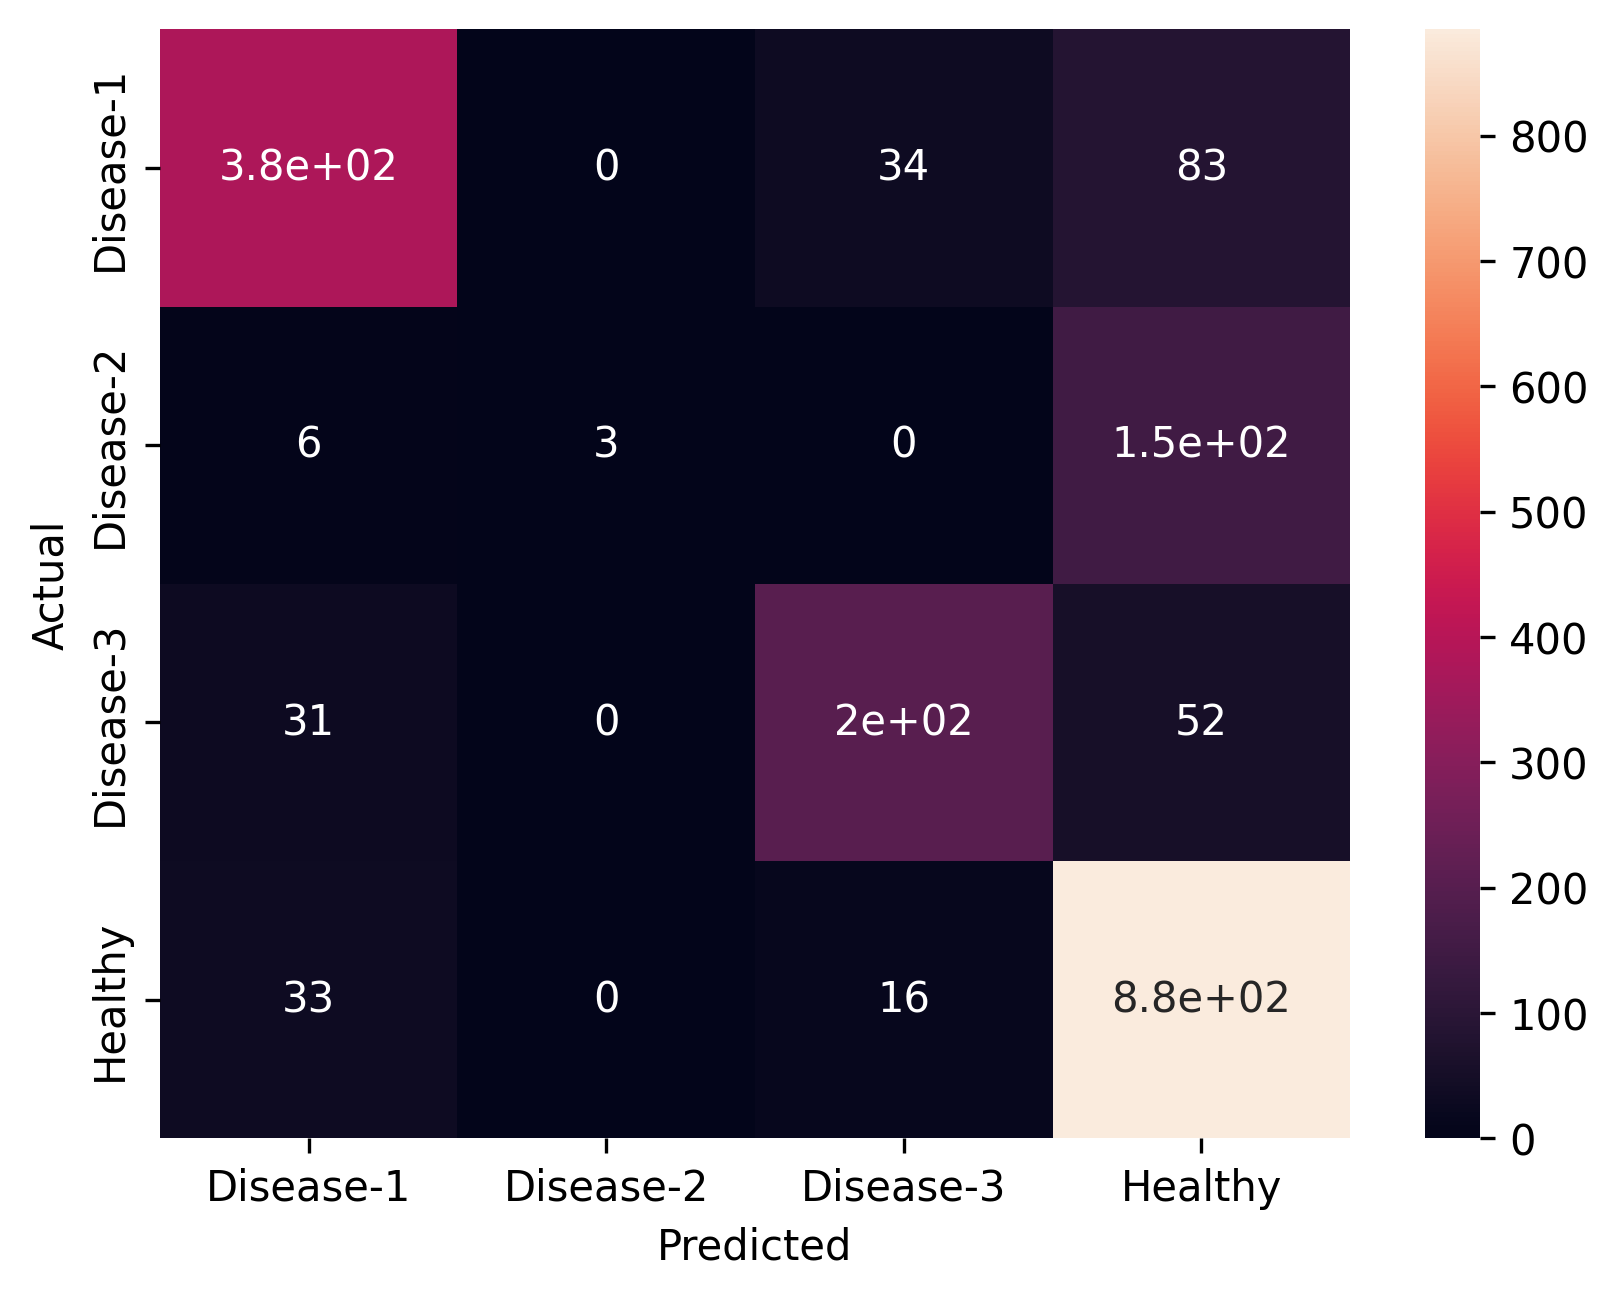
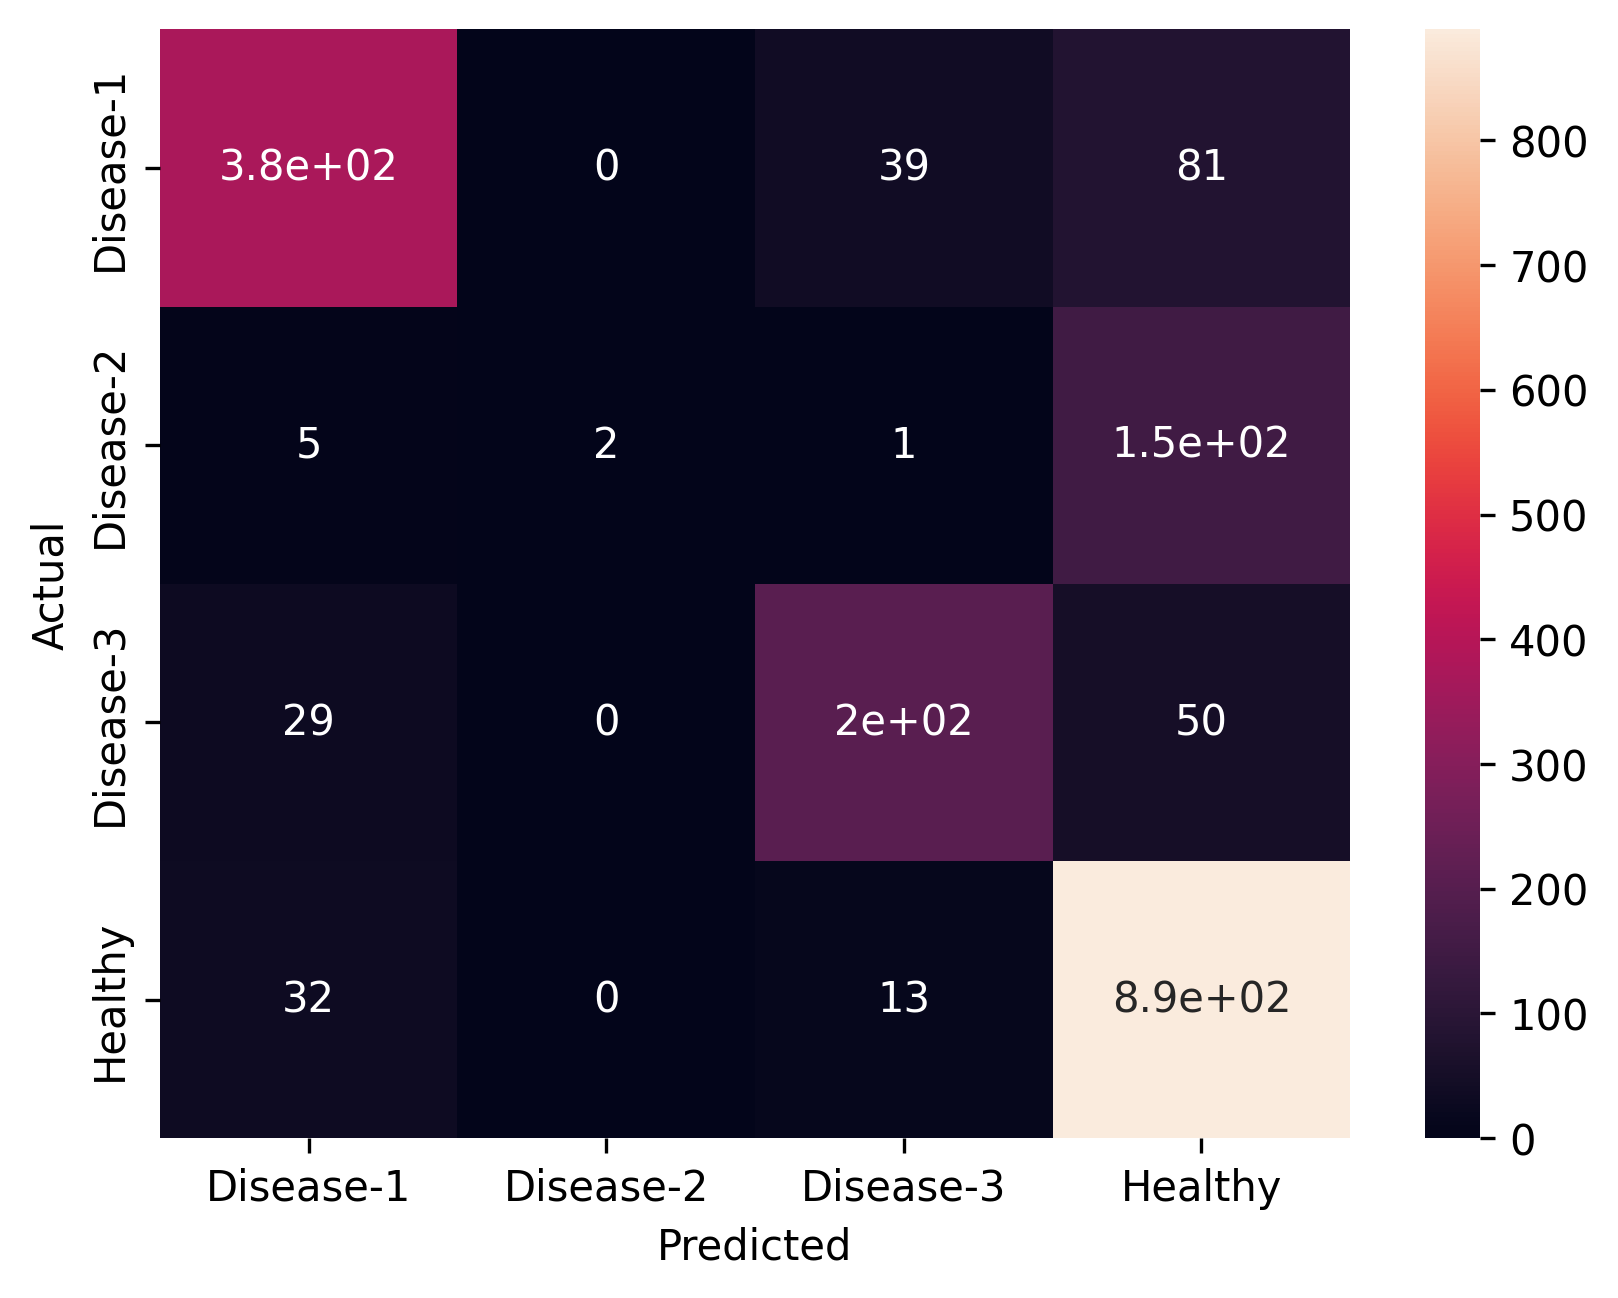
More details

diff --git a/main.py b/main.py
@@ -1,6 +1,6 @@
 #!/usr/bin/env python
 # -*- coding: utf-8 -*-
-"""Pharmahacks challenge 1"""
+"""Pharmahacks - Phyla Challenge #2"""
 
 import pandas as pd
 from sklearn.model_selection import train_test_split
@@ -25,10 +25,16 @@ confusion_matrix = pd.crosstab(Y_test, Y_pred, rownames=[
                                'Actual'], colnames=['Predicted'])
 sn.heatmap(confusion_matrix, annot=True)
 
-print('Accuracy: ', metrics.accuracy_score(Y_test, Y_pred))
+print('Accuracy - F1 Score - Micro: ', metrics.accuracy_score(Y_test, Y_pred))
+print('F1 Score - Macro: ', metrics.f1_score(Y_test, Y_pred, average='macro'))
+print('F1 Score - Weighted: ', metrics.f1_score(Y_test, Y_pred, average='weighted'))
 plt.savefig(fname="metrics.png", dpi=300, bbox_inches="tight")
 
-# TEST
-# Real Answer: Disease-2
-prediction = clf.predict([[0.0,10.0,0.0,0.0,0.0,0.0,0.0,0.0,0.0,0.0,0.0,0.0,0.0,0.0,0.0,0.0,0.0,0.0,0.0,0.0,0.0,0.0,0.0,0.0,0.0,0.0,0.0,0.0,0.0,0.0,0.0,0.0,0.0,0.0,0.0,0.0,0.0,0.0,0.0,0.0,0.0,0.0,0.0,0.0,0.0,0.0,0.0,0.0,0.0,0.0,0.0,0.0,0.0,0.0,0.0,0.0,0.0,0.0,0.0,0.0,0.0,0.0,0.0,0.0,0.0,0.0,0.0,0.0,0.0,0.0,0.0,0.0,0.0,0.0,0.0,0.0,0.0,0.0,0.0,0.0,0.0,0.0,0.0,0.0,0.0,0.0,0.0,0.0,0.0,0.0,0.0,0.0,0.0,0.0,0.0,0.0,0.0,0.0,0.0,0.0,0.0,0.0,0.0,0.0,0.0,0.0,0.0,0.0,0.0,0.0,0.0,0.0,0.0,0.0,0.0,0.0,0.0,0.0,0.0,0.0,0.0,0.0,0.0,0.0,0.0,0.0,0.0,0.0,0.0,0.0,0.0,0.0,0.0,0.0,0.0,0.0,0.0,0.0,0.0,0.0,0.0,0.0,0.0,2.0,0.0,0.0,0.0,0.0,0.0,0.0,16.0,0.0,0.0,0.0,0.0,10.0,17.0,0.0,0.0,0.0,0.0,0.0,0.0,0.0,0.0,0.0,0.0,0.0,0.0,0.0,0.0,0.0,0.0,0.0,0.0,0.0,0.0,0.0,0.0,0.0,0.0,5796.0,0.0,0.0,0.0,0.0,0.0,71.0,37.0,267.0,0.0,0.0,0.0,0.0,0.0,30.0,67.0,0.0,0.0,2783.0,0.0,0.0,0.0,0.0,0.0,0.0,0.0,0.0,0.0,0.0,0.0,0.0,0.0,0.0,0.0,241.0,795.0,0.0,0.0,0.0,0.0,16.0,0.0,0.0,0.0,0.0,0.0,0.0,0.0,1161.0,0.0,0.0,556.0,0.0,0.0,0.0,0.0,0.0,0.0,0.0,0.0,0.0,498.0,0.0,0.0,0.0,0.0,0.0,0.0,0.0,17.0,0.0,0.0,0.0,0.0,0.0,0.0,0.0,0.0,0.0,0.0,0.0,0.0,0.0,0.0,0.0,0.0,0.0,0.0,0.0,0.0,0.0,0.0,0.0,0.0,0.0,0.0,0.0,0.0,0.0,0.0,0.0,0.0,0.0,0.0,0.0,0.0,0.0,0.0,0.0,0.0,0.0,0.0,0.0,0.0,0.0,0.0,0.0,0.0,0.0,0.0,0.0,0.0,0.0,0.0,0.0,0.0,0.0,0.0,0.0,0.0,0.0,0.0,0.0,0.0,0.0,0.0,0.0,0.0,0.0,0.0,0.0,0.0,0.0,0.0,0.0,0.0,0.0,0.0,0.0,0.0,0.0,0.0,0.0,0.0,0.0,0.0,0.0,0.0,0.0,0.0,0.0,0.0,0.0,0.0,21.0,0.0,7.0,0.0,0.0,0.0,0.0,0.0,0.0,0.0,0.0,0.0,0.0,0.0,0.0,0.0,0.0,0.0,0.0,0.0,0.0,0.0,0.0,0.0,0.0,0.0,0.0,0.0,0.0,0.0,0.0,0.0,0.0,0.0,0.0,0.0,0.0,0.0,0.0,0.0,0.0,0.0,0.0,0.0,0.0,0.0,0.0,0.0,0.0,0.0,146.0,0.0,0.0,0.0,0.0,0.0,0.0,0.0,0.0,0.0,0.0,0.0,0.0,0.0,0.0,0.0,0.0,0.0,0.0,0.0,0.0,0.0,0.0,0.0,0.0,0.0,0.0,0.0,0.0,0.0,0.0,0.0,0.0,0.0,0.0,369.0,0.0,0.0,0.0,0.0,0.0,0.0,0.0,0.0,0.0,0.0,23.0,0.0,0.0,0.0,0.0,0.0,0.0,0.0,0.0,5.0,0.0,0.0,0.0,0.0,2927.0,0.0,0.0,0.0,89.0,0.0,0.0,0.0,0.0,0.0,0.0,0.0,0.0,0.0,0.0,0.0,41.0,0.0,0.0,0.0,0.0,0.0,6.0,190.0,17.0,0.0,0.0,0.0,0.0,0.0,0.0,0.0,0.0,0.0,0.0,0.0,0.0,0.0,0.0,0.0,0.0,0.0,0.0,0.0,0.0,0.0,0.0,0.0,12.0,0.0,0.0,0.0,0.0,0.0,0.0,0.0,0.0,0.0,0.0,0.0,0.0,24.0,0.0,0.0,17.0,626.0,595.0,519.0,0.0,158.0,0.0,0.0,0.0,29.0,0.0,0.0,0.0,89.0,0.0,0.0,161.0,18.0,0.0,0.0,0.0,0.0,0.0,0.0,23.0,0.0,0.0,42.0,0.0,0.0,77.0,0.0,36.0,0.0,0.0,11.0,0.0,0.0,0.0,6.0,30.0,0.0,0.0,122.0,0.0,0.0,0.0,0.0,121.0,0.0,0.0,0.0,7.0,0.0,0.0,0.0,80.0,60.0,0.0,112.0,0.0,45.0,0.0,33.0,0.0,105.0,161.0,0.0,0.0,1019.0,0.0,0.0,12.0,19.0,0.0,0.0,0.0,0.0,0.0,0.0,0.0,0.0,0.0,0.0,0.0,22.0,0.0,0.0,9.0,0.0,62.0,0.0,0.0,0.0,0.0,2855.0,0.0,0.0,0.0,0.0,0.0,17.0,15.0,13.0,30.0,31.0,0.0,0.0,0.0,0.0,29.0,25.0,202.0,84.0,179.0,1498.0,47.0,0.0,1632.0,0.0,46.0,49.0,735.0,44.0,619.0,145.0,196.0,0.0,246.0,0.0,290.0,113.0,0.0,900.0,0.0,0.0,1195.0,0.0,0.0,0.0,0.0,0.0,23.0,0.0,0.0,0.0,0.0,0.0,0.0,0.0,0.0,0.0,0.0,0.0,0.0,85.0,0.0,0.0,0.0,0.0,0.0,0.0,4.0,0.0,7.0,0.0,0.0,0.0,0.0,0.0,0.0,0.0,0.0,0.0,0.0,0.0,60.0,0.0,0.0,0.0,0.0,0.0,0.0,0.0,0.0,0.0,0.0,0.0,0.0,0.0,0.0,0.0,5.0,0.0,0.0,0.0,0.0,0.0,0.0,0.0,0.0,0.0,0.0,0.0,0.0,0.0,0.0,0.0,0.0,0.0,0.0,0.0,0.0,0.0,0.0,0.0,0.0,0.0,0.0,0.0,21.0,0.0,0.0,0.0,0.0,0.0,0.0,0.0,0.0,0.0,0.0,0.0,0.0,0.0,0.0,0.0,0.0,0.0,0.0,0.0,0.0,0.0,0.0,0.0,0.0,0.0,0.0,0.0,0.0,0.0,0.0,0.0,0.0,0.0,0.0,0.0,0.0,0.0,0.0,0.0,0.0,0.0,0.0,0.0,0.0,0.0,0.0,0.0,0.0,0.0,0.0,0.0,0.0,0.0,0.0,0.0,0.0,0.0,0.0,0.0,0.0,0.0,0.0,0.0,0.0,0.0,0.0,0.0,0.0,0.0,0.0,0.0,0.0,0.0,0.0,0.0,0.0,0.0,0.0,0.0,0.0,0.0,0.0,0.0,0.0,0.0,0.0,0.0,0.0,0.0,0.0,0.0,0.0,0.0,0.0,0.0,0.0,0.0,0.0,0.0,0.0,0.0,0.0,0.0,0.0,0.0,0.0,636.0,0.0,0.0,1349.0,0.0,0.0,0.0,0.0,0.0,0.0,0.0,0.0,0.0,0.0,0.0,0.0,0.0,0.0,0.0,0.0,0.0,0.0,0.0,0.0,0.0,0.0,0.0,0.0,0.0,0.0,0.0,0.0,0.0,0.0,0.0,0.0,0.0,0.0,33.0,76.0,0.0,10.0,0.0,0.0,0.0,0.0,0.0,0.0,0.0,0.0,0.0,0.0,0.0,0.0,0.0,0.0,0.0,0.0,0.0,0.0,0.0,0.0,0.0,0.0,0.0,0.0,0.0,0.0,0.0,0.0,0.0,0.0,0.0,0.0,0.0,0.0,0.0,0.0,0.0,0.0,0.0,0.0,0.0,0.0,0.0,0.0,0.0,0.0,0.0,0.0,0.0,0.0,0.0,0.0,12.0,0.0,0.0,0.0,0.0,148.0,0.0,0.0,0.0,0.0,0.0,0.0,0.0,0.0,0.0,0.0,0.0,0.0,0.0,6.0,0.0,0.0,0.0,0.0,0.0,0.0,0.0,0.0,0.0,0.0,0.0,0.0,0.0,0.0,0.0,0.0,0.0,0.0,0.0,0.0,0.0,0.0,0.0,0.0,0.0,0.0,0.0,0.0,4829.0,0.0,0.0,0.0,0.0,0.0,0.0,0.0,0.0,0.0,0.0,0.0,0.0,0.0,0.0,0.0,0.0,0.0,0.0,14.0,0.0,0.0,0.0,0.0,0.0,0.0,0.0,0.0,0.0,0.0,0.0,0.0,0.0,0.0,0.0,0.0,0.0,0.0,0.0,0.0,0.0,0.0,0.0,0.0,0.0,0.0,0.0,0.0,0.0,0.0,0.0,0.0,0.0,0.0,0.0,0.0,0.0,0.0,0.0,0.0,0.0,0.0,0.0,0.0,2.0,0.0,0.0,0.0,0.0,0.0,539.0,0.0,29.0,0.0,0.0,0.0,0.0,0.0,12.0,0.0,0.0,0.0,0.0,0.0,0.0,361.0,0.0,0.0,0.0,0.0,0.0,0.0,0.0,0.0,0.0,0.0,0.0,0.0,214.0,0.0,0.0,0.0,0.0,0.0,0.0,0.0]])
-print(prediction)
+
+# Actual disease
+print(Y_test)
+# Prediction
+print(Y_pred)
+Y_proba = clf.predict_proba(X_test)
+# Probability
+print(Y_proba)

diff --git a/README.md b/README.md
@@ -1,2 +1,3 @@
 # Pharmahacks 2022 Bio-Corsairs
 
+## Pharmahacks - Phyla Challenge #2
